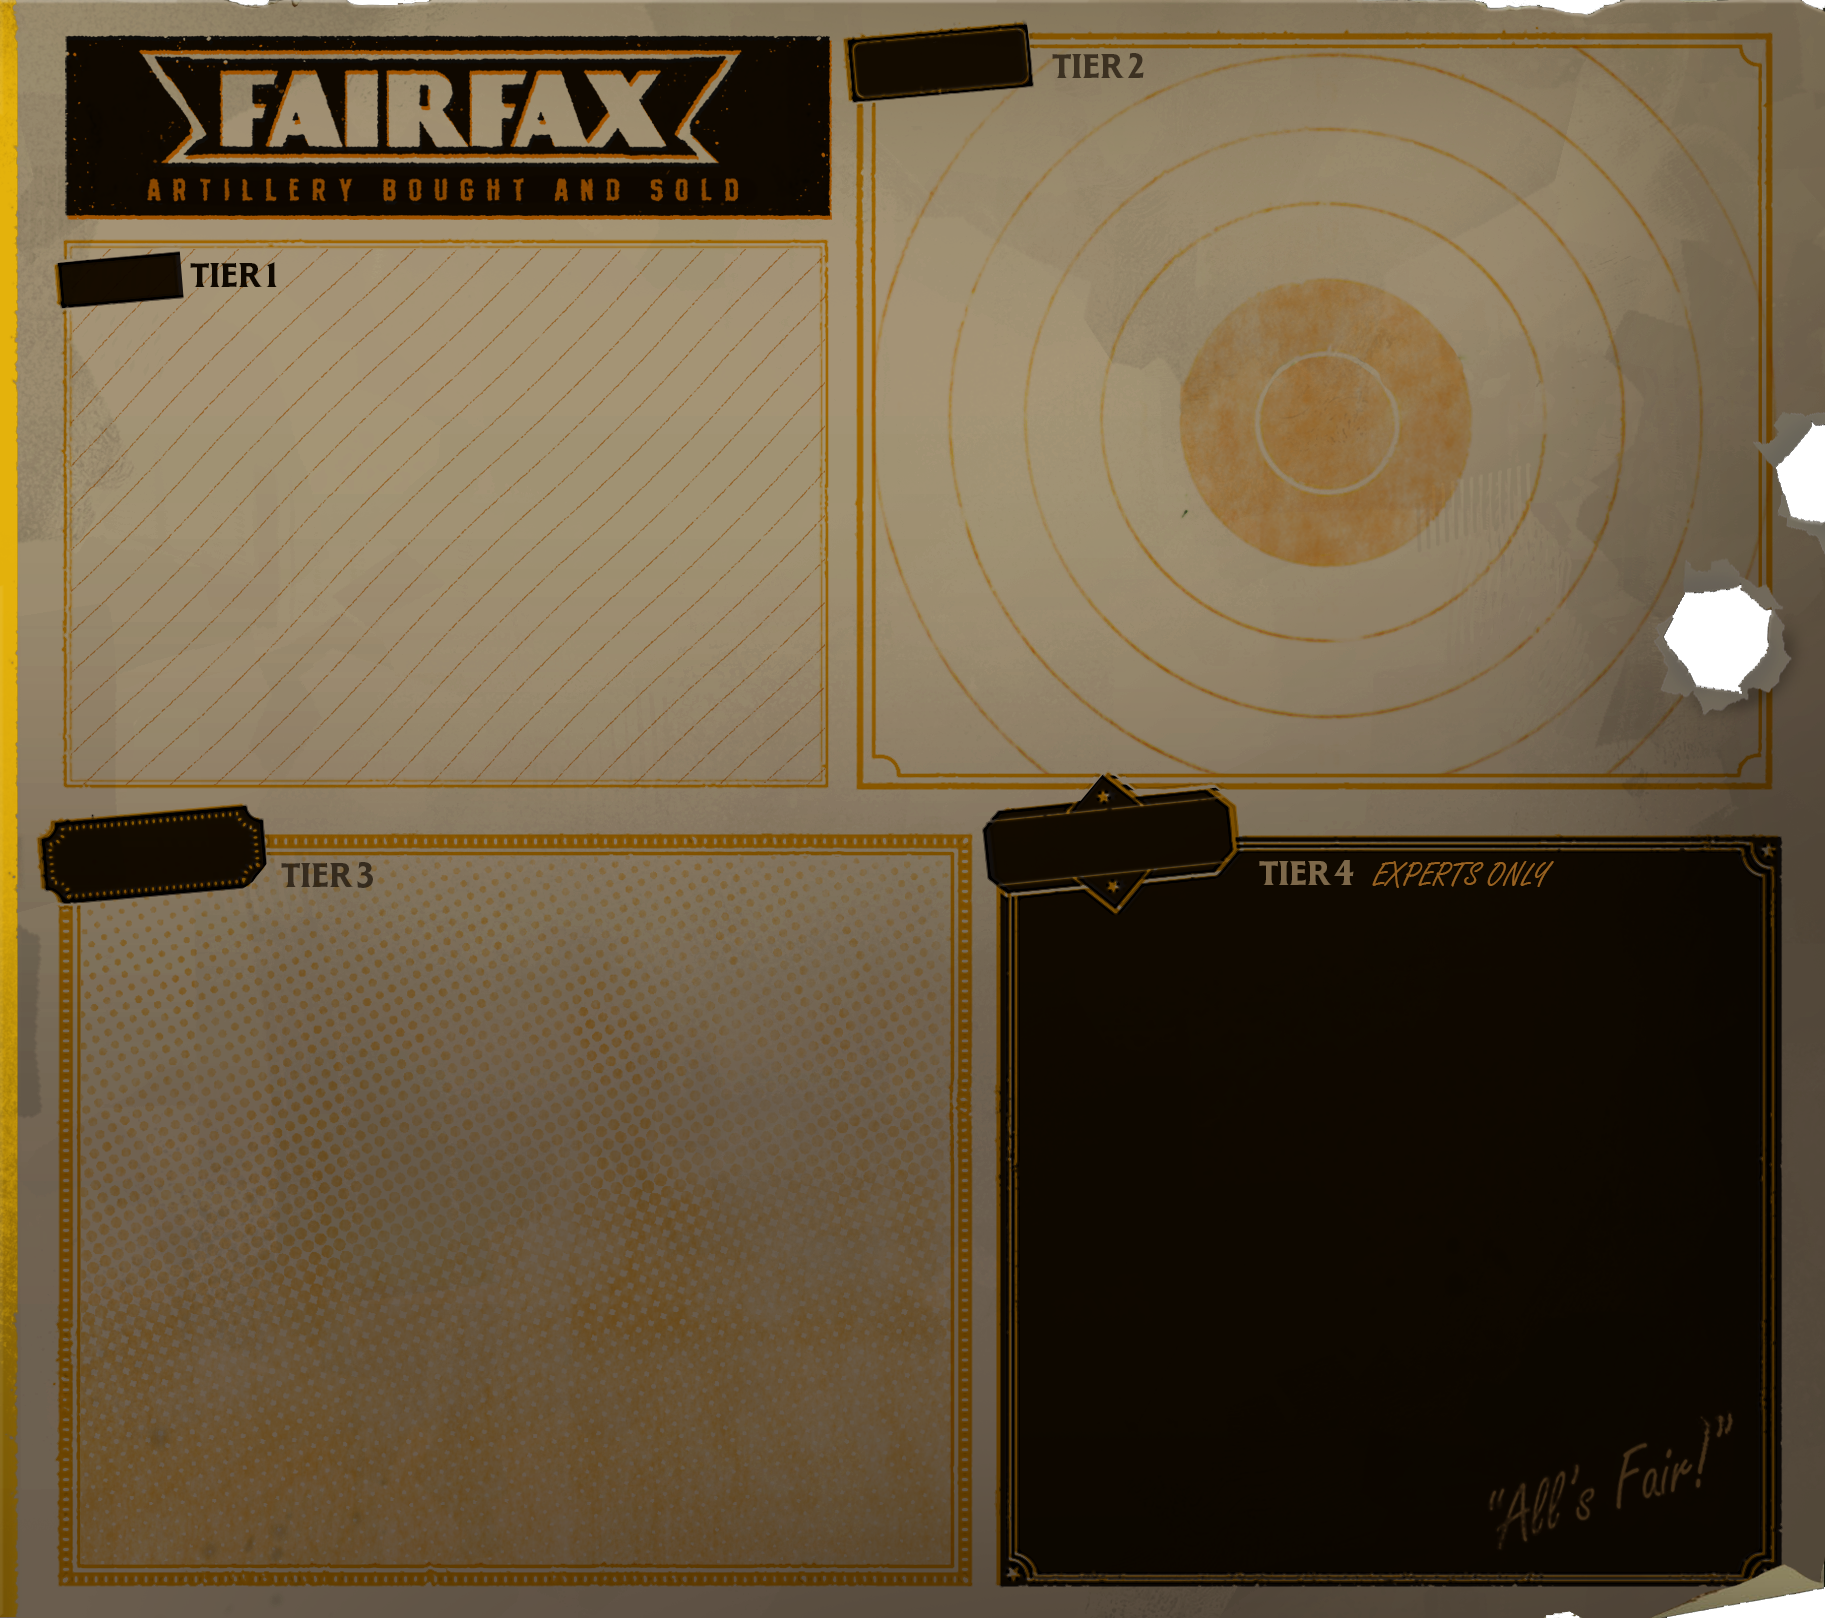
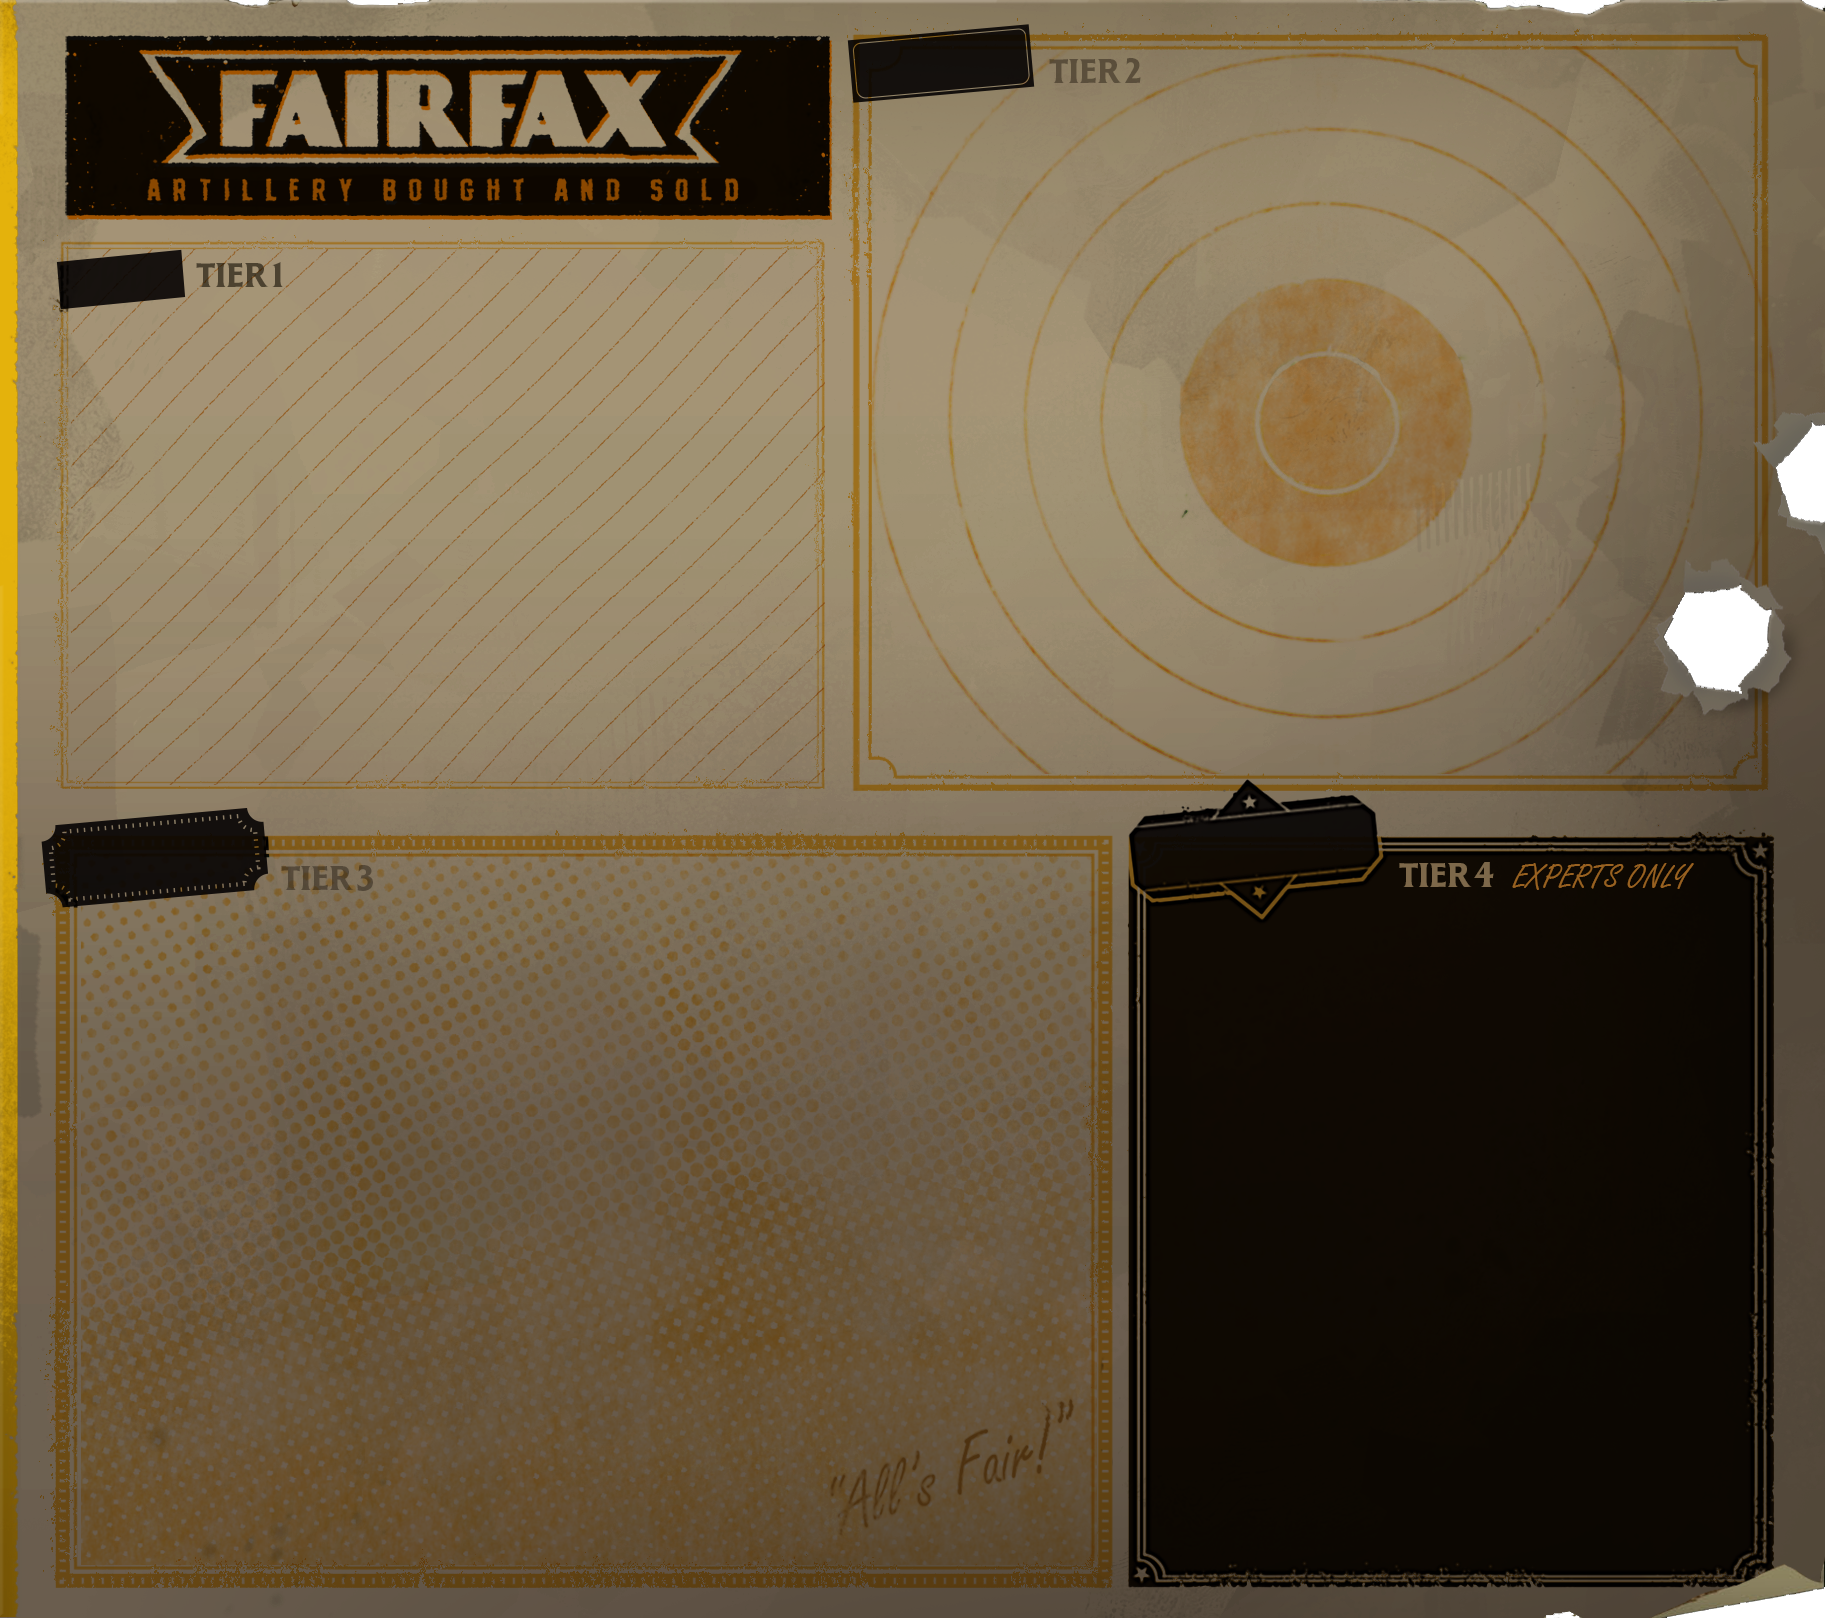
Update weapon art and rework tier-box item grids to fixed per-tier column counts
Replace the weapon catalog background art and re-align tier box
positions, price tags, and item grids to match. Item grids now use
CSS Grid with an explicit, identical card size and a fixed column
count per tier/category instead of flex-wrap sizing, so row density
can be tuned per box without cards varying in size.

diff --git a/src/App.css b/src/App.css
@@ -255,10 +255,10 @@
   height: 45.7%;
 }
 .tier-box--4 {
-  left: 55.1%;
-  top: 50.8%;
-  width: 41.9%;
-  height: 45.5%;
+  left: 61.9%;
+  top: 51.7%;
+  width: 35.2%;
+  height: 45.4%;
 }
 
 /* Vitality/Spirit's art shares weapon's template for tiers 1-3, but its
@@ -277,10 +277,41 @@
 
 .tier-box .category-grid {
   position: absolute;
-  inset: 15% 3% 3% 3%;
+  inset: 14% 2% 4% 4%;
+}
+.tier-box--3 .category-grid.weapon {
+  inset: 12% 2% 6% 4%;
+}
+.tier-box--3 .category-grid.vitality,
+.tier-box--3 .category-grid.spirit {
+  inset: 12% 0% 6% 6%;
 }
 .tier-box--4 .category-grid {
-  inset: 17% 3% 3% 3%;
+  inset: 12% 2% 8% 4%;
+}
+.tier-box--4 .category-grid.weapon {
+  inset: 12% 0% 8% 6%;
+}
+
+.tier-box--1 .category-grid {
+  grid-template-columns: repeat(5, 7.2cqw);
+}
+.tier-box--2 .category-grid {
+  grid-template-columns: repeat(6, 7.2cqw);
+}
+.tier-box--3 .category-grid.weapon {
+  grid-template-columns: repeat(7, 7.2cqw);
+}
+.tier-box--3 .category-grid.vitality,
+.tier-box--3 .category-grid.spirit {
+  grid-template-columns: repeat(5, 7.2cqw);
+}
+.tier-box--4 .category-grid.weapon {
+  grid-template-columns: repeat(4, 7.2cqw);
+}
+.tier-box--4 .category-grid.vitality,
+.tier-box--4 .category-grid.spirit {
+  grid-template-columns: repeat(6, 7.2cqw);
 }
 
 .tier-price {
@@ -304,26 +335,34 @@
   left: 1%;
   rotate: -5deg;
 }
+.tier-showcase.vitality .tier-box--1 .tier-price,
+.tier-showcase.spirit .tier-box--1 .tier-price {
+  top: 2%;
+}
 .tier-box--2 .tier-price {
   font-size: clamp(0.45rem, 2.35cqw, 1.9rem);
-  top: 0.5%;
+  top: 1.5%;
   left: 0.5%;
   rotate: -4deg;
 }
 .tier-box--3 .tier-price {
   font-size: clamp(0.48rem, 2.45cqw, 2rem);
-  top: -2%;
+  top: -1%;
   left: 1%;
   rotate: -4deg;
 }
 .tier-box--4 .tier-price {
   font-size: clamp(0.5rem, 2.7cqw, 2.2rem);
-  top: -3%;
   left: 1%;
   rotate: -5deg;
 }
+.tier-showcase.weapon .tier-box--4 .tier-price {
+  top: -3%;
+  left: 2%;
+}
 .tier-showcase.vitality .tier-box--4 .tier-price,
 .tier-showcase.spirit .tier-box--4 .tier-price {
+  top: -4%;
   left: -1%;
 }
 
@@ -369,26 +408,15 @@
   border: 0;
 }
 
-/* Cards are a fixed fraction of the board's own width (cqw, queried
-   against .tier-board), so every card is the exact same size regardless of
-   which tier box it sits in - each box just reflows however many fit per
-   row, rather than a per-tier column count. */
 .grid-item__container {
   position: relative;
 }
 
 .category-grid {
-  display: flex;
-  flex-wrap: wrap;
-  justify-content: flex-start;
-  align-content: flex-start;
-  align-items: flex-start;
+  display: grid;
+  grid-auto-rows: min-content;
+  align-content: start;
   gap: 2px;
-}
-
-.category-grid .grid-item {
-  flex: 0 0 auto;
-  width: 6.35cqw;
 }
 
 .grid-item {
